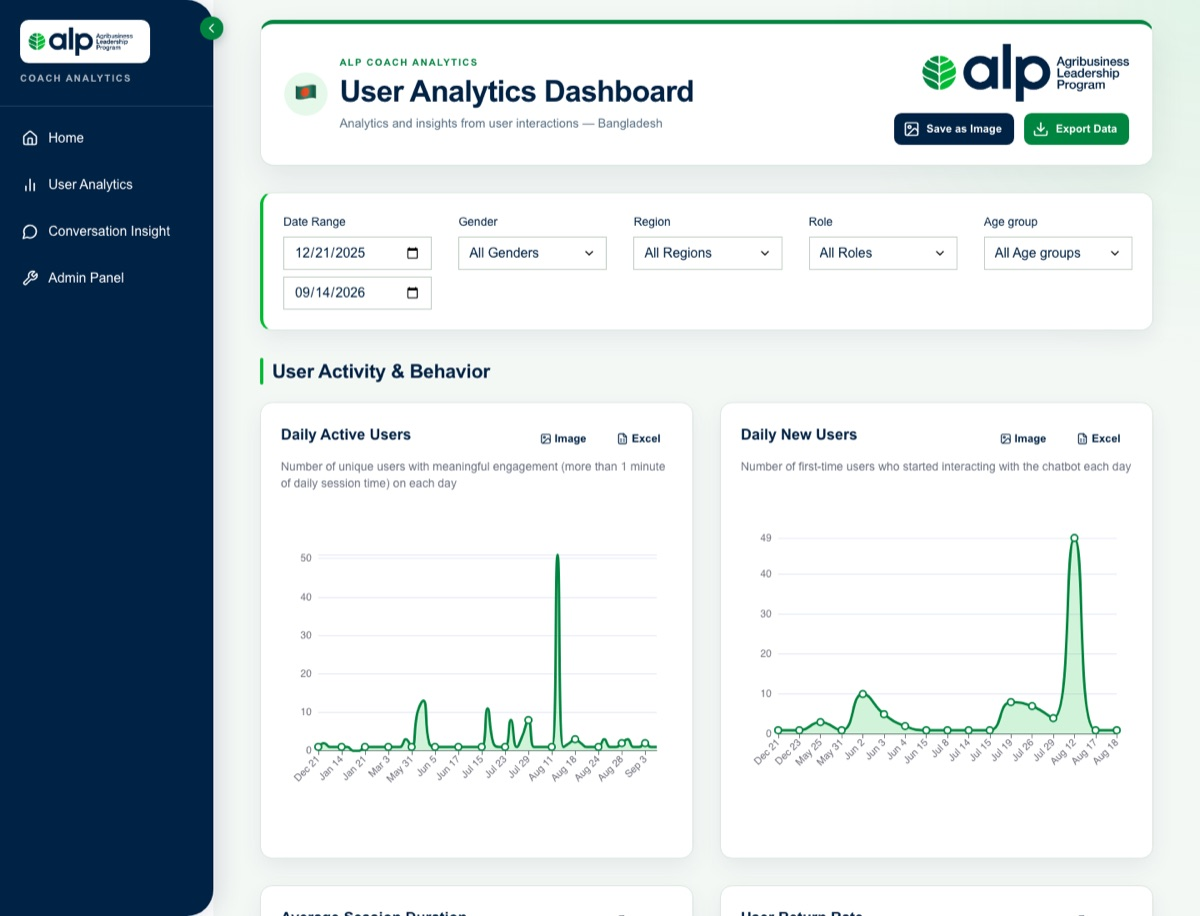
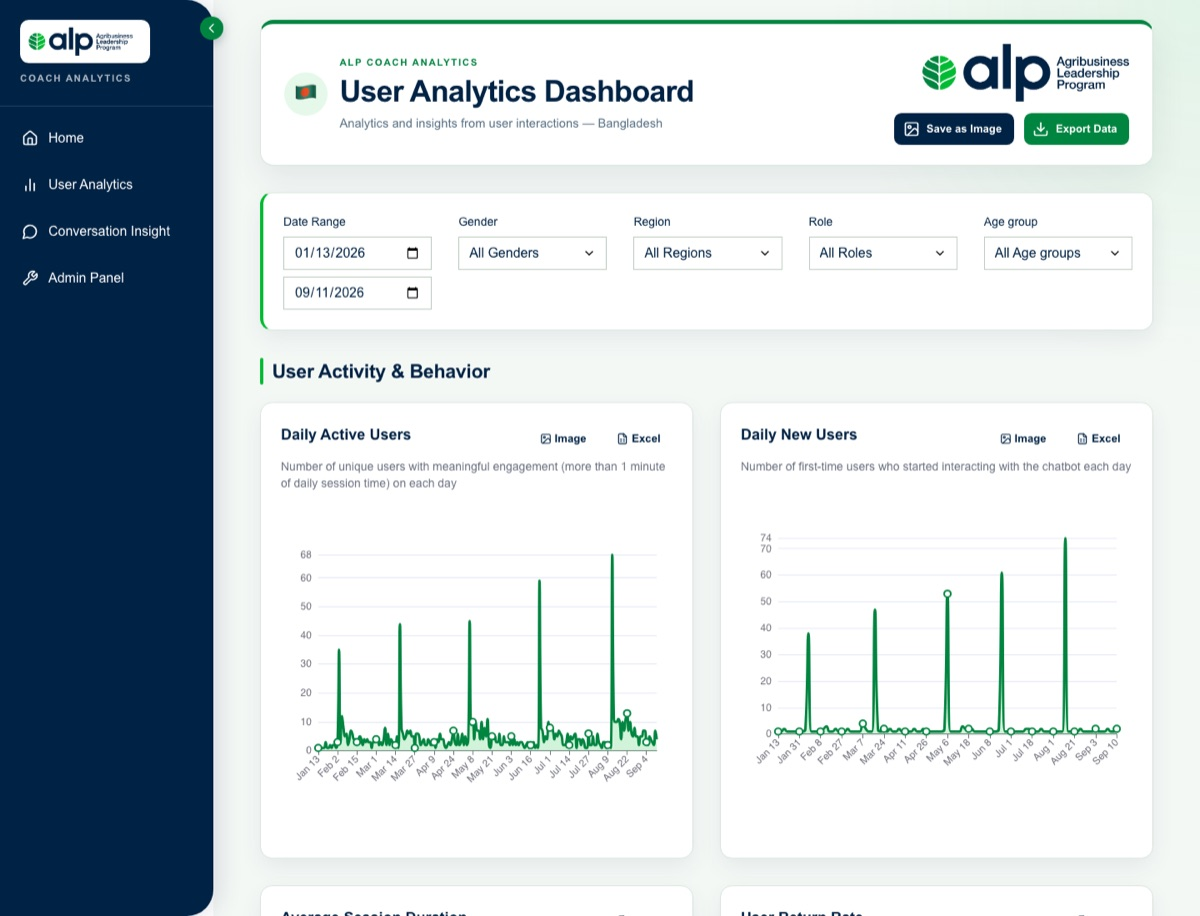
Dashboard screenshots from synthetic data (same UI, no real users); add generator

diff --git a/tools/mock_dashboard_data.py b/tools/mock_dashboard_data.py
@@ -1,0 +1,142 @@
+"""Generate synthetic ALP Coach analytics data in the shape of the live API,
+so the real dashboard UI can be screenshotted without showing real users.
+Numbers are illustrative only."""
+import json, random, uuid, sys, math
+from datetime import datetime, timedelta
+
+OUT = sys.argv[1]
+random.seed(20261014)
+
+PATHS = {
+    "Fundamentals of Cooperatives": {"Understanding Cooperatives": ["Introduction to Cooperatives", "Cooperative Governance", "Managing Meetings"]},
+    "Producer Organization Essentials": {"Product Aggregation": ["Collection from Farmers", "Procuring Produce"], "Bookkeeping for Producer Organizations": ["Cash Ledger", "Sales Records"]},
+    "Fundamentals of Retail Management": {"Inventory Management": ["Record Keeping for Inventory", "Inventory and Business Cycles"], "Customer Care": ["Retailers and Shops", "Customer Care"]},
+    "Bookkeeping Essentials": {"Bookkeeping and Your Business": ["What is Bookkeeping", "Introduction to Bookkeeping", "Next Steps for Bookkeeping"], "Bookkeeping Ledgers": ["Cash Ledger", "Sales and Roleplay"]},
+    "Finance and Accounting": {"Cost Management": ["Introduction to Cost Management", "Basic Pricing Strategies"], "Working with Credit": ["Introduction to Credit"]},
+    "Growing Your Business": {"Business Planning": ["Elements of a Business Plan", "Smart Objectives"], "Marketing Strategies": ["Marketing Strategy Part 1"]},
+    "Internal Management": {"Leadership": ["Entrepreneurship and Leadership", "Managing Staff"]},
+    "Business Sustainability": {"Business Relationships": ["Building Business Relationships"]},
+    "Fundamentals of ALP Coaching": {"Coaching Skills": ["Introduction to Coaching", "Running a Coaching Session"]},
+}
+PATH_WEIGHTS = {
+    "bangladesh": [10, 14, 16, 18, 9, 11, 6, 5, 11],
+    "tanzania": [4, 9, 24, 26, 12, 9, 6, 4, 6],
+}
+COUNTRIES = {
+    "bangladesh": dict(users=412, questions=1280, start=datetime(2026, 1, 12), end=datetime(2026, 9, 12),
+                       regions=["Rangpur", "Dhaka", "Mymensingh", "Khulna", "Rajshahi", "Barisal", "Sylhet", "Chattogram"],
+                       region_w=[24, 20, 14, 12, 11, 8, 6, 5], roles=["Coach", "AE", "Employee of an AE", "Family member of an AE", "Other"],
+                       role_w=[34, 38, 12, 8, 8], gender_w=[58, 42], trainings=[(datetime(2026, 2, 3), 38), (datetime(2026, 3, 17), 46), (datetime(2026, 5, 6), 52), (datetime(2026, 6, 24), 61), (datetime(2026, 8, 12), 74)]),
+    "tanzania": dict(users=268, questions=940, start=datetime(2026, 1, 19), end=datetime(2026, 9, 12),
+                     regions=["Mara", "Geita", "Mwanza", "Simiyu", "Shinyanga", "Other"],
+                     region_w=[30, 22, 18, 12, 10, 8], roles=["AE", "Employee of an AE", "Coach", "Family member of an AE", "Other"],
+                     role_w=[44, 18, 16, 10, 12], gender_w=[46, 54], trainings=[(datetime(2026, 2, 17), 31), (datetime(2026, 4, 8), 44), (datetime(2026, 6, 10), 39), (datetime(2026, 7, 29), 47)]),
+}
+AGES = ["20-34", "35-59", "0-19", "60-74"]
+AGE_W = [52, 34, 8, 6]
+QUESTIONS = [
+    "What is the ABC method?", "How do I keep my stock records?", "How can I save money from my business?",
+    "What is a cash budget?", "How do I price my products?", "My customer says my price is too high, what should I do?",
+    "How do I write a business plan?", "What records should a cooperative keep?", "How do I handle a customer who wants credit?",
+    "What is bookkeeping and why is it important?", "How do I set objectives for my shop?", "How can I attract more customers?",
+    "What is a cash ledger?", "How do I calculate my profit?", "How do I manage a meeting with members?",
+    "What is inventory management?", "How can I reduce my costs?", "How do I know which products sell best?",
+    "What is a producer organization?", "How do I aggregate produce from farmers?", "How do I motivate my staff?",
+    "What is a SMART objective?", "How do I record credit sales?", "How can I grow my business?",
+    "What is cost management?", "How do I plan for the season?", "How should I store my products?",
+    "What is customer care?", "How do I deal with competition?", "How do I keep my books every day?",
+]
+INTENTS = ["Knowledge Seeking", "Problem Solving", "Decision Making", "Clarification", "Off-Topic"]
+INTENT_W = [60, 23, 8, 6, 3]
+COMPLEX = ["beginner", "intermediate", "advanced"]
+COMPLEX_W = [68, 26, 6]
+
+
+def pick(items, weights):
+    return random.choices(items, weights=weights, k=1)[0]
+
+
+def ts(dt):
+    return dt.strftime("%Y-%m-%dT%H:%M:%S.%f")
+
+
+def build(country, cfg):
+    paths = list(PATHS)
+    pw = PATH_WEIGHTS[country]
+    users = []
+    # Join dates: training-day cohorts plus organic trickle
+    join_dates = []
+    for day, n in cfg["trainings"]:
+        join_dates += [day + timedelta(hours=random.uniform(9, 17)) for _ in range(n)]
+    while len(join_dates) < cfg["users"]:
+        d = cfg["start"] + timedelta(days=random.uniform(0, (cfg["end"] - cfg["start"]).days))
+        join_dates.append(d.replace(hour=random.randint(6, 21), minute=random.randint(0, 59)))
+    join_dates = sorted(join_dates)[: cfg["users"]]
+
+    events, convs = [], []
+    lp_queries = {p: 0 for p in paths}
+    for i, joined in enumerate(join_dates):
+        uid = f"{random.randint(100000000, 999999999)}"
+        prof = dict(gender=pick(["Man", "Woman"], cfg["gender_w"]), age=pick(AGES, AGE_W),
+                    region=pick(cfg["regions"], cfg["region_w"]), role=pick(cfg["roles"], cfg["role_w"]))
+        n_sessions = pick([1, 2, 3, 4, 5, 6, 8, 11], [22, 20, 16, 13, 10, 8, 6, 5])
+        session_days = [joined] + sorted(joined + timedelta(days=random.expovariate(1 / 18), hours=random.uniform(-3, 8)) for _ in range(n_sessions - 1))
+        session_days = [d for d in session_days if d <= cfg["end"]]
+        active = len(session_days) > 1 or random.random() < 0.55
+        for s_idx, s_start in enumerate(session_days):
+            sid = str(uuid.uuid4())
+            t = s_start
+            def ev(action, **extra):
+                nonlocal t
+                events.append(dict(id=str(uuid.uuid4()), user_id=uid, action=action, session_id=sid, **prof,
+                                   active_user=active, new_user=(s_idx == 0), language="en", voice_gender=None,
+                                   learning_path_id=None, learning_path_name=None, category_id=None, category_name=None,
+                                   course_id=None, course_name=None, is_correct=None, created_at=ts(t), language_code="en") | extra)
+                t += timedelta(seconds=random.uniform(20, 140))
+            if s_idx == 0:
+                for a in ["bot_started", "set_language", "set_name", "set_gender", "set_age", "region_set", "role_set"]:
+                    ev(a)
+            if random.random() < 0.72:
+                lp = pick(paths, pw)
+                cat = random.choice(list(PATHS[lp]))
+                course = random.choice(PATHS[lp][cat])
+                lp_id = str(paths.index(lp) + 1)
+                lp_queries[lp] += random.randint(2, 6)
+                ev("Select learning path", learning_path_id=lp_id, learning_path_name=lp)
+                ev("Select category", learning_path_id=lp_id, learning_path_name=lp, category_name=cat)
+                ev("Select course", learning_path_id=lp_id, learning_path_name=lp, category_name=cat, course_name=course)
+                for _ in range(random.randint(2, 9)):
+                    ev("Press continue button", learning_path_id=lp_id, learning_path_name=lp, category_name=cat, course_name=course)
+                if random.random() < 0.55:
+                    for _ in range(random.randint(1, 3)):
+                        ev("quiz_answered", learning_path_id=lp_id, learning_path_name=lp, category_name=cat, course_name=course,
+                           is_correct=random.random() < 0.68)
+            if random.random() < 0.6:
+                n_q = pick([1, 2, 3, 4, 5, 6], [40, 25, 15, 10, 6, 4])
+                for q_idx in range(n_q):
+                    ev("handle_rag_message")
+                    convs.append(dict(id=str(uuid.uuid4()), question=random.choice(QUESTIONS), question_translated=None, answer=None,
+                                      latency_ms=random.randint(2800, 9000), cost_usd=None, event_time=ts(t), date=t.strftime("%Y-%m-%dT00:00:00"),
+                                      session_id=sid, user_id_main=uid, complexity_level=None, user_intent=pick(INTENTS, INTENT_W),
+                                      question_complexity=pick(COMPLEX, COMPLEX_W), learning_path=pick(paths, pw), question_id=str(uuid.uuid4()),
+                                      has_follow_up_questions=q_idx < n_q - 1, question_count=n_q, example_follow_up_question=None,
+                                      example_previous_question=None, has_difficulty=random.random() < 0.08,
+                                      difficulty_type=None, evidence=None, **prof, created_at=ts(t), language_code="en", type=None))
+        users.append(uid)
+
+    # trim / pad conversation count toward the target
+    random.shuffle(convs)
+    convs = convs[: cfg["questions"]]
+    convs.sort(key=lambda c: c["event_time"])
+    events.sort(key=lambda e: e["created_at"])
+    overview = dict(aggregate=dict(totalUsers=len(users), totalQuestions=len(convs)),
+                    popularTopics=[dict(topic=p, learningPathId=str(paths.index(p) + 1), queryCount=n)
+                                   for p, n in sorted(lp_queries.items(), key=lambda kv: -kv[1])])
+    json.dump(dict(total=len(events), items=events, limit=100000, offset=0), open(f"{OUT}/{country}-user.json", "w"))
+    json.dump(dict(total=len(convs), items=convs, limit=10000, offset=0), open(f"{OUT}/{country}-conv.json", "w"))
+    json.dump(overview, open(f"{OUT}/{country}-overview.json", "w"))
+    print(country, "users", len(users), "events", len(events), "questions", len(convs), "top", overview["popularTopics"][:3])
+
+
+for c, cfg in COUNTRIES.items():
+    build(c, cfg)

diff --git a/tools/README.md b/tools/README.md
@@ -1,0 +1,10 @@
+# tools
+
+`mock_dashboard_data.py` generates synthetic analytics data in the shape of the
+ALP Coach data API. It was used to produce the dashboard screenshots in
+`public/images/alp/dashboard/` from the real dashboard UI without showing real
+users. To regenerate: run it with an output folder, copy the JSON into the
+dashboard repo's `static/mock/`, point `COUNTRY_CONFIG` in
+`src/lib/utils/overviewData.ts` at `/mock/*.json`, run `npm run dev`, and
+screenshot `/`, `/bangladesh`, `/tanzania`, `/bangladesh/conversation`.
+Revert the dashboard changes afterwards.
